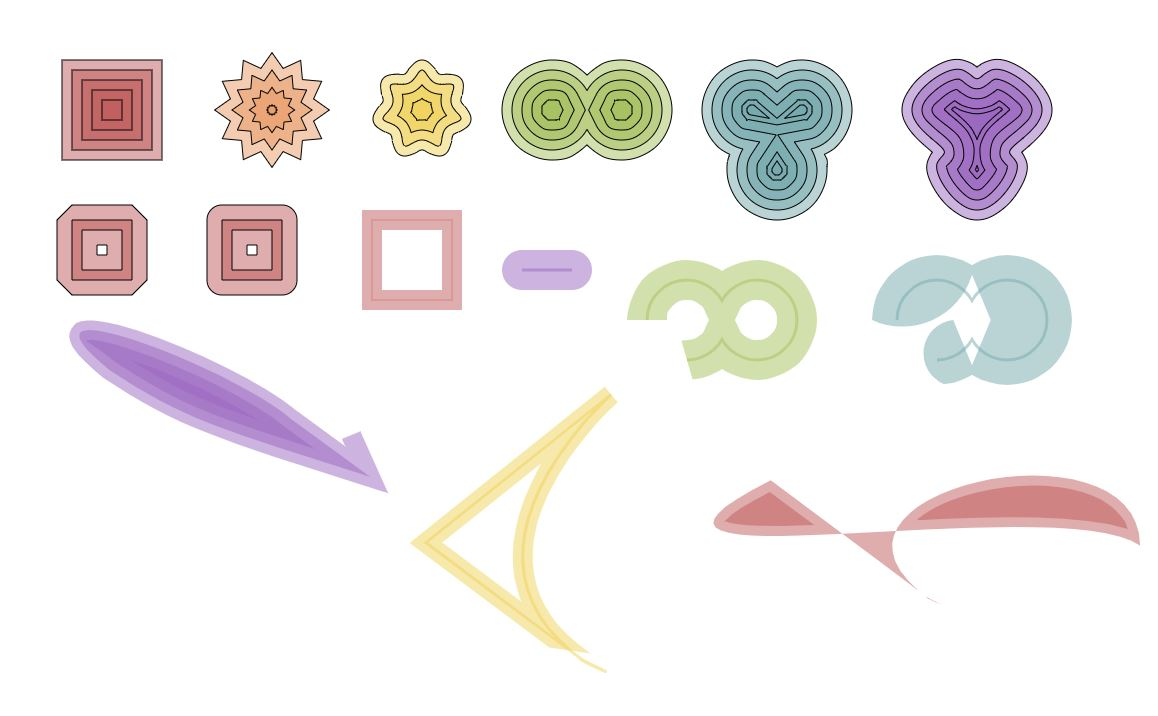
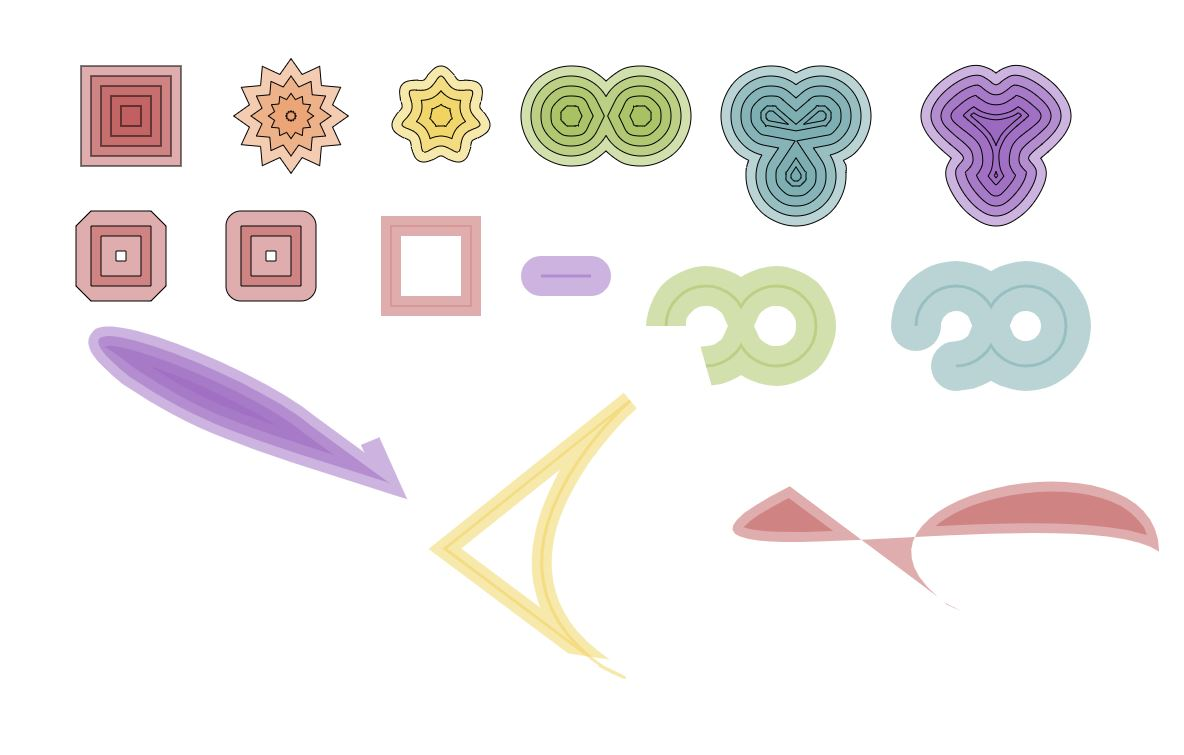
fix error introduced in lastest update

diff --git a/demo/paperjs-offset.min.js b/demo/paperjs-offset.min.js
@@ -1,1 +1,1 @@
-!function(g){"use strict";var w,u,n;function e(n,t,e){var r=function(n,e,r,i){var t=n;if(n instanceof g.Path)t=u.OffsetSimpleShape(n,e,r,i);else{var o=w.Flat(n.children.map(function(n){var t=u.OffsetSimpleShape(n,e,r,i);return(t=u.Normalize(t)).clockwise!==n.clockwise&&t.reverse(),t instanceof g.CompoundPath?(t.applyMatrix=!0,t.children):t}));t=new g.CompoundPath({children:o,closed:n.closed})}return t.copyAttributes(n,!1),t}(n,t,(e=e||{}).join||"miter",e.limit||10);return void 0===e.insert&&(e.insert=!0),e.insert&&(n.parent||g.project.activeLayer).addChild(r),r}function r(n,t,e){var r=function(n,t,e,r,i){var o=n;if(n instanceof g.Path)o=u.OffsetSimpleStroke(n,t,e,r,i);else{var a=w.Flat(n.children.map(function(n){return u.OffsetSimpleStroke(n,t,e,r,i)}));o=new g.Group({children:a,insert:!1})}return o.strokeWidth=0,o.fillColor=n.strokeColor,o.shadowBlur=n.shadowBlur,o.shadowColor=n.shadowColor,o.shadowOffset=n.shadowOffset,o}(n,t,(e=e||{}).join||"miter",e.cap||"butt",e.limit||10);return void 0===e.insert&&(e.insert=!0),e.insert&&(n.parent||g.project.activeLayer).addChild(r),r}g=g&&g.hasOwnProperty("default")?g.default:g,function(n){function r(n,r,t){if(void 0===t&&(t=!1),t){var e="function"==typeof r?function(n,t,e){return!r(n,t,e)}:function(n){return n!==r},i=n.filter(e);if(i.length<n.length)return n.splice.apply(n,[0,n.length].concat(i)),!0}else{var o="function"==typeof r?n.findIndex(r):n.indexOf(r);if(-1<o)return n.splice(o,1),!0}return!1}function c(e,r){return 0<e?new Array(e).fill(null).map(function(n,t){return r(t,e)}):[]}n.Delete=r,n.BatchDelete=function(t,n,e){void 0===e&&(e=!1),n.forEach(function(n){r(t,n,e)})},n.Replace=function(n,t,e,r){if(void 0===r&&(r=!1),null==n)return!1;var i=!1;do{var o="function"==typeof t?n.findIndex(t):n.indexOf(t);if(!(-1<o))break;n[o]=e,i=!0}while(r);return i},n.Find=function(n,t){var e=n.findIndex(t);return n[e]},n.IncludeSome=function(t,n){return n.some(function(n){return t.includes(n)})},n.OrderedInsert=function(n,t,e,r){void 0===r&&(r=!1);var i=n.findIndex(function(n){return 0<=e(n,t)});if(-1<i){var o=0===e(n[i],t);return n.splice(i,o&&r?1:0,t),i}return n.push(t),n.length-1},n.InsertBefore=function(n,t,e){var r=n.indexOf(e);n.splice(Math.max(r,0),0,t)},n.InsertAfter=function(n,t,e){var r=n.indexOf(e);-1<r?n.splice(r+1,0,t):n.push(e)},n.ApproximateIndex=function(n,t,e){return void 0===e&&(e=0),n.findIndex(function(n){return Math.abs(n-t)<=e})},n.Approximate=function(n,t,e){void 0===e&&(e=0);var r=n.findIndex(function(n){return Math.abs(n-t)<=e});return n[r]},n.Empty=function(n){return 0<n?new Array(n).fill(null):[]},n.Create=c,n.Repeat=function(t){for(var e=[],n=1;n<arguments.length;n++)e[n-1]=arguments[n];return c(t*e.length,function(n){return e[Math.floor(n/t)]})},n.RepeatSequence=function(n){for(var t=[],e=1;e<arguments.length;e++)t[e-1]=arguments[e];return c(n*t.length,function(n){return t[n%t.length]})},n.AnalyzePeriod=function(n){for(var t=Math.ceil(Math.sqrt(n.length)),e=1;e<=t;++e)if(n.length%e==0){for(var r=n.slice(0,e),i=!0,o=e;o<n.length;++o)if(n[o]!==r[o%e]){i=!1;break}if(i)return r}return n},n.Flat=function(n,t){void 0===t&&(t=!1);var e=Array.prototype.concat.apply([],n);return t?e:e.filter(function(n){return null!=n})},n.Divide=function(n,t){for(var e=[],r=0;r<n.length;r+=t)e.push(n.slice(r,r+t));return e},n.Group=function(r,i){var o={};return r.forEach(function(n,t){var e=i(n,t,r);o[e]||(o[e]=[]),o[e].push(n)}),o},n.Sample=function(t,n,e){if(void 0===e&&(e=!1),n>=t.length)return t;if(e){for(var r=[],i=t.slice(),o=0;o<n;++o){var a=i.splice(Math.round(i.length*Math.random()),1)[0];r.push(a)}return r}var u=t.length/n;return c(n,function(n){return t[Math.round(u*n)]})},n.Union=function(n,t){void 0===t&&(t=!1);var e=Array.prototype.concat.apply([],n);return t?Array.from(new Set(e)):e},n.Intersect=function(e){if(1<e.length){var t=new Map;e[0].forEach(function(n){return t.set(n,1)});for(var n=1;n<e.length;++n)e[n].forEach(function(n){t.has(n)&&t.set(n,t.get(n)+1)});var r=new Array;return t.forEach(function(n,t){n===e.length&&r.push(t)}),r}return e[0]||[]},n.Subtract=function(n,t){if(1<t.length){var e=new Set(Array.prototype.concat.apply([],t));return n.filter(function(n){return!e.has(n)})}return n||[]},n.NonNull=function(n){return n.filter(function(n){return null!=n})}}(w||(w={})),function(n){function s(n,t,e,r){var i=n.curve===t,o=t.getNormalAt(i?0:1,!0).multiply(r),a=n.point.add(o),u=new g.Segment(a),c=i?"handleOut":"handleIn";return u[c]=n[c].add(e.subtract(o).divide(2)),u}function v(n,t){return n.x*t.y-n.y*t.x}function f(n,t,e,r,i,o){var a=new g.Curve(n[0],n[1]),u=new g.Curve(t[0],t[1]),c=a.getIntersections(u),f=n[1].point.getDistance(t[0].point);if(e.isSmooth())t[0].handleOut=t[0].handleOut.project(e.handleOut),t[0].handleIn=n[1].handleIn.project(e.handleIn),t[0].point=n[1].point.add(t[0].point).divide(2),n.pop();else if(0===c.length)if(f>.1*Math.abs(i))switch(r){case"miter":var s=function(n,t,e,r){var i=n.subtract(t),o=e.subtract(r),a=v(n,t),u=v(e,r);return new g.Point(a*o.x-i.x*u,a*o.y-i.y*u).divide(v(i,o))}(a.point2,a.point2.add(a.getTangentAt(1,!0)),u.point1,u.point1.add(u.getTangentAt(0,!0)));Math.max(s.getDistance(a.point2),s.getDistance(u.point1))<Math.abs(i)*o&&n.push(new g.Segment(s));break;case"round":var l=function(n,t,e,r){var i=n.point.subtract(e).add(t.point.subtract(e)).normalize(Math.abs(r)).add(e),o=new g.Path.Arc({from:n.point,to:t.point,through:i,insert:!1});return n.handleOut=o.firstSegment.handleOut,t.handleIn=o.lastSegment.handleIn,3===o.segments.length?o.segments[1]:null}(n[1],t[0],e.point,i);l&&n.push(l)}else t[0].handleIn=n[1].handleIn,n.pop();else{var d=a.divideAt(c[0]);if(d){var h=d.segment1,p=u.divideAt(u.getIntersections(a)[0]);h.handleOut=p?p.segment1.handleOut:t[0].handleOut,n.pop(),t[0]=h}else t[0].handleIn=n[1].handleIn,n.pop()}}function r(n){return 1===n.children.length&&(n=n.children[0]).remove(),n}function l(n,t){if(void 0===t&&(t=.01),n.closed){var e=Math.abs(n.area*t);if(n.clockwise||n.reverse(),(n=n.unite(n,{insert:!1}))instanceof g.CompoundPath&&(n.children.filter(function(n){return Math.abs(n.area)<e}).forEach(function(n){return n.remove()}),1===n.children.length))return r(n)}return n}function d(i){i.clockwise||i.reverse();var n=i.unite(i,{insert:!1});return n instanceof g.CompoundPath?(n.children.filter(function(n){if(1<n.segments.length){var t=n.segments[0].location.offset,e=n.segments[Math.max(1,Math.floor(n.segments.length/2))].location.offset,r=i.getNearestLocation(n.getPointAt((t+e)/3)).offset;return i.getNearestLocation(n.getPointAt((t+e)/3*2)).offset<r}return!0}).forEach(function(n){return n.remove()}),r(n)):i}function h(n,t){(function(n){return n instanceof g.CompoundPath?w.Flat(n.children.map(function(n){return n.segments})):n.segments})(n).slice().forEach(function(n){t.contains(n.point)||n.remove()})}function p(n,t,e,r){var i=function(n,t){var e=n.clone({insert:!1});return e.reduce(),e}(n),o=i.curves.slice(),a=w.Divide(w.Flat(o.map(function(n){return function n(t,e){var r=new g.Curve(t.segment1.handleOut.add(t.segment1.point),new g.Point(0,0),new g.Point(0,0),t.segment2.handleIn.add(t.segment2.point)).getNormalAt(.5,!0).multiply(e),i=s(t.segment1,t,r,e),o=s(t.segment2,t,r,e),a=new g.Curve(i,o);if(0===a.getIntersections(a).length){var u=Math.min(Math.abs(e)/10,1),c=a.getPointAt(.5,!0).getDistance(t.getPointAt(.5,!0));if(Math.abs(c-Math.abs(e))>u){var f=t.divideAtTime(.5);if(null!=f)return n(t,e).concat(n(f,e))}}return[i,o]}(n,t)})),2),u=w.Flat(function(n,t,e,r,i){for(var o=e.segments,a=n[0].slice(),u=0;u<n.length-1;++u)f(n[u],n[u+1],o[u+1],t,r,i);return e.closed&&(f(n[n.length-1],a,o[0],t,r,i),n[0][0]=a[0]),n}(a,e,i,t,r)),c=d(new g.Path({segments:u,closed:n.closed}));return c.reduce(),n.closed&&(n.clockwise&&t<0||!n.clockwise&&0<t)&&h(c,n),l(c)}function m(n,t,e){var r=n.point.add(t.point).divide(2),i=t.point.subtract(n.point).rotate(-90).normalize(e),o=r.add(i);return new g.Path.Arc({from:n.point,to:t.point,through:o,insert:!1}).segments}n.ConnectAdjacentBezier=f,n.Normalize=l,n.RemoveIntersection=d,n.OffsetSimpleShape=p,n.OffsetSimpleStroke=function(n,t,e,r,i){var o=p(n,t=n.clockwise?t:-t,e,i),a=p(n,-t,e,i);if(n.closed)return o.subtract(a,{insert:!1});var u=a,c=new Array;a instanceof g.CompoundPath&&((c=a.children.filter(function(n){return n.closed})).forEach(function(n){return n.remove()}),u=a.children[0]),u.reverse();var f=function(n,t,e,r){if(n instanceof g.CompoundPath){var i=n.children.map(function(n){return{c:n,a:Math.abs(n.area)}});n=(i=i.sort(function(n,t){return t.a-n.a}))[0].c}var o=n.segments.slice(),a=t.segments.slice();switch(r){case"round":var u=m(a[a.length-1],o[0],e),c=m(o[o.length-1],a[0],e),f=new g.Path({segments:u.concat(o,c,a),closed:!0,insert:!1});return f.reduce(),f;default:return new g.Path({segments:o.concat(a),closed:!0,insert:!1})}}(o,u,t,r);if(0<c.length)for(var s=0,l=c;s<l.length;s++){var d=l[s];f=f.subtract(d,{insert:!1})}return f}}(u||(u={})),(n=g).Path.prototype.offset=function(n,t){return e(this,n,t)},n.Path.prototype.offsetStroke=function(n,t){return r(this,n,t)},n.CompoundPath.prototype.offset=function(n,t){return e(this,n,t)},n.CompoundPath.prototype.offsetStroke=function(n,t){return r(this,n,t)}}(paper);
+!function(w){"use strict";var y,u,n;function e(n,t,e){var r=function(n,e,r,i){var t=n;if(n instanceof w.Path)t=u.OffsetSimpleShape(n,e,r,i);else{var o=y.Flat(n.children.map(function(n){var t=u.OffsetSimpleShape(n,e,r,i);return(t=u.Normalize(t)).clockwise!==n.clockwise&&t.reverse(),t instanceof w.CompoundPath?(t.applyMatrix=!0,t.children):t}));t=new w.CompoundPath({children:o,closed:n.closed})}return t.copyAttributes(n,!1),t}(n,t,(e=e||{}).join||"miter",e.limit||10);return void 0===e.insert&&(e.insert=!0),e.insert&&(n.parent||w.project.activeLayer).addChild(r),r}function r(n,t,e){var r=function(n,t,e,r,i){var o=n;if(n instanceof w.Path)o=u.OffsetSimpleStroke(n,t,e,r,i);else{var a=y.Flat(n.children.map(function(n){return u.OffsetSimpleStroke(n,t,e,r,i)}));o=new w.Group({children:a,insert:!1})}return o.strokeWidth=0,o.fillColor=n.strokeColor,o.shadowBlur=n.shadowBlur,o.shadowColor=n.shadowColor,o.shadowOffset=n.shadowOffset,o}(n,t,(e=e||{}).join||"miter",e.cap||"butt",e.limit||10);return void 0===e.insert&&(e.insert=!0),e.insert&&(n.parent||w.project.activeLayer).addChild(r),r}w=w&&w.hasOwnProperty("default")?w.default:w,function(n){function r(n,r,t){if(void 0===t&&(t=!1),t){var e="function"==typeof r?function(n,t,e){return!r(n,t,e)}:function(n){return n!==r},i=n.filter(e);if(i.length<n.length)return n.splice.apply(n,[0,n.length].concat(i)),!0}else{var o="function"==typeof r?n.findIndex(r):n.indexOf(r);if(-1<o)return n.splice(o,1),!0}return!1}function c(e,r){return 0<e?new Array(e).fill(null).map(function(n,t){return r(t,e)}):[]}n.Delete=r,n.BatchDelete=function(t,n,e){void 0===e&&(e=!1),n.forEach(function(n){r(t,n,e)})},n.Replace=function(n,t,e,r){if(void 0===r&&(r=!1),null==n)return!1;var i=!1;do{var o="function"==typeof t?n.findIndex(t):n.indexOf(t);if(!(-1<o))break;n[o]=e,i=!0}while(r);return i},n.Find=function(n,t){var e=n.findIndex(t);return n[e]},n.IncludeSome=function(t,n){return n.some(function(n){return t.includes(n)})},n.OrderedInsert=function(n,t,e,r){void 0===r&&(r=!1);var i=n.findIndex(function(n){return 0<=e(n,t)});if(-1<i){var o=0===e(n[i],t);return n.splice(i,o&&r?1:0,t),i}return n.push(t),n.length-1},n.InsertBefore=function(n,t,e){var r=n.indexOf(e);n.splice(Math.max(r,0),0,t)},n.InsertAfter=function(n,t,e){var r=n.indexOf(e);-1<r?n.splice(r+1,0,t):n.push(e)},n.ApproximateIndex=function(n,t,e){return void 0===e&&(e=0),n.findIndex(function(n){return Math.abs(n-t)<=e})},n.Approximate=function(n,t,e){void 0===e&&(e=0);var r=n.findIndex(function(n){return Math.abs(n-t)<=e});return n[r]},n.Empty=function(n){return 0<n?new Array(n).fill(null):[]},n.Create=c,n.Repeat=function(t){for(var e=[],n=1;n<arguments.length;n++)e[n-1]=arguments[n];return c(t*e.length,function(n){return e[Math.floor(n/t)]})},n.RepeatSequence=function(n){for(var t=[],e=1;e<arguments.length;e++)t[e-1]=arguments[e];return c(n*t.length,function(n){return t[n%t.length]})},n.AnalyzePeriod=function(n){for(var t=Math.ceil(Math.sqrt(n.length)),e=1;e<=t;++e)if(n.length%e==0){for(var r=n.slice(0,e),i=!0,o=e;o<n.length;++o)if(n[o]!==r[o%e]){i=!1;break}if(i)return r}return n},n.Flat=function(n,t){void 0===t&&(t=!1);var e=Array.prototype.concat.apply([],n);return t?e:e.filter(function(n){return null!=n})},n.Divide=function(n,t){for(var e=[],r=0;r<n.length;r+=t)e.push(n.slice(r,r+t));return e},n.Group=function(r,i){var o={};return r.forEach(function(n,t){var e=i(n,t,r);o[e]||(o[e]=[]),o[e].push(n)}),o},n.Sample=function(t,n,e){if(void 0===e&&(e=!1),n>=t.length)return t;if(e){for(var r=[],i=t.slice(),o=0;o<n;++o){var a=i.splice(Math.round(i.length*Math.random()),1)[0];r.push(a)}return r}var u=t.length/n;return c(n,function(n){return t[Math.round(u*n)]})},n.Union=function(n,t){void 0===t&&(t=!1);var e=Array.prototype.concat.apply([],n);return t?Array.from(new Set(e)):e},n.Intersect=function(e){if(1<e.length){var t=new Map;e[0].forEach(function(n){return t.set(n,1)});for(var n=1;n<e.length;++n)e[n].forEach(function(n){t.has(n)&&t.set(n,t.get(n)+1)});var r=new Array;return t.forEach(function(n,t){n===e.length&&r.push(t)}),r}return e[0]||[]},n.Subtract=function(n,t){if(1<t.length){var e=new Set(Array.prototype.concat.apply([],t));return n.filter(function(n){return!e.has(n)})}return n||[]},n.NonNull=function(n){return n.filter(function(n){return null!=n})}}(y||(y={})),function(n){function s(n,t,e,r){var i=n.curve===t,o=t.getNormalAt(i?0:1,!0).multiply(r),a=n.point.add(o),u=new w.Segment(a),c=i?"handleOut":"handleIn";return u[c]=n[c].add(e.subtract(o).divide(2)),u}function v(n,t){return n.x*t.y-n.y*t.x}function l(n,t,e,r,i,o){var a=new w.Curve(n[0],n[1]),u=new w.Curve(t[0],t[1]),c=a.getIntersections(u),f=n[1].point.getDistance(t[0].point);if(e.isSmooth())t[0].handleOut=t[0].handleOut.project(e.handleOut),t[0].handleIn=n[1].handleIn.project(e.handleIn),t[0].point=n[1].point.add(t[0].point).divide(2),n.pop();else if(0===c.length)if(f>.1*Math.abs(i))switch(r){case"miter":var s=function(n,t,e,r){var i=n.subtract(t),o=e.subtract(r),a=v(n,t),u=v(e,r);return new w.Point(a*o.x-i.x*u,a*o.y-i.y*u).divide(v(i,o))}(a.point2,a.point2.add(a.getTangentAt(1,!0)),u.point1,u.point1.add(u.getTangentAt(0,!0)));Math.max(s.getDistance(a.point2),s.getDistance(u.point1))<Math.abs(i)*o&&n.push(new w.Segment(s));break;case"round":var l=function(n,t,e,r){var i=n.point.subtract(e).add(t.point.subtract(e)).normalize(Math.abs(r)).add(e),o=new w.Path.Arc({from:n.point,to:t.point,through:i,insert:!1});return n.handleOut=o.firstSegment.handleOut,t.handleIn=o.lastSegment.handleIn,3===o.segments.length?o.segments[1]:null}(n[1],t[0],e.point,i);l&&n.push(l)}else t[0].handleIn=n[1].handleIn,n.pop();else{var d=a.divideAt(c[0]);if(d){var h=d.segment1,p=u.divideAt(u.getIntersections(a)[0]);h.handleOut=p?p.segment1.handleOut:t[0].handleOut,n.pop(),t[0]=h}else t[0].handleIn=n[1].handleIn,n.pop()}}function r(n){return 1===n.children.length&&(n=n.children[0]).remove(),n}function d(n,t){if(void 0===t&&(t=.01),n.closed){var e=Math.abs(n.area*t);if(n.clockwise||n.reverse(),(n=n.unite(n,{insert:!1}))instanceof w.CompoundPath&&(n.children.filter(function(n){return Math.abs(n.area)<e}).forEach(function(n){return n.remove()}),1===n.children.length))return r(n)}return n}function h(i){var n=i.unite(i,{insert:!1});return n instanceof w.CompoundPath?(n.children.filter(function(n){if(1<n.segments.length){var t=n.segments[0].location.offset,e=n.segments[Math.max(1,Math.floor(n.segments.length/2))].location.offset,r=i.getNearestLocation(n.getPointAt((t+e)/3)).offset;return i.getNearestLocation(n.getPointAt((t+e)/3*2)).offset<r}return!0}).forEach(function(n){return n.remove()}),r(n)):i}function p(n,t){(function(n){return n instanceof w.CompoundPath?y.Flat(n.children.map(function(n){return n.segments})):n.segments})(n).slice().forEach(function(n){t.contains(n.point)||n.remove()})}function m(n,t,e,r){var i,o;o=(i=function(n,t){var e=n.clone({insert:!1});return e.reduce(),n.clockwise||(e.reverse(),t=-t),[e,t]}(n,t))[0],t=i[1];var a=o.curves.slice(),u=y.Divide(y.Flat(a.map(function(n){return function n(t,e){var r=new w.Curve(t.segment1.handleOut.add(t.segment1.point),new w.Point(0,0),new w.Point(0,0),t.segment2.handleIn.add(t.segment2.point)).getNormalAt(.5,!0).multiply(e),i=s(t.segment1,t,r,e),o=s(t.segment2,t,r,e),a=new w.Curve(i,o);if(0===a.getIntersections(a).length){var u=Math.min(Math.abs(e)/10,1),c=a.getPointAt(.5,!0).getDistance(t.getPointAt(.5,!0));if(Math.abs(c-Math.abs(e))>u){var f=t.divideAtTime(.5);if(null!=f)return n(t,e).concat(n(f,e))}}return[i,o]}(n,t)})),2),c=y.Flat(function(n,t,e,r,i){for(var o=e.segments,a=n[0].slice(),u=0;u<n.length-1;++u)l(n[u],n[u+1],o[u+1],t,r,i);return e.closed&&(l(n[n.length-1],a,o[0],t,r,i),n[0][0]=a[0]),n}(u,e,o,t,r)),f=h(new w.Path({segments:c,closed:n.closed}));return f.reduce(),o.closed&&(o.clockwise&&t<0||!o.clockwise&&0<t)&&p(f,n),o.clockwise!==n.clockwise&&f.reverse(),d(f)}function g(n,t,e){var r=n.point.add(t.point).divide(2),i=t.point.subtract(n.point).rotate(-90).normalize(e),o=r.add(i);return new w.Path.Arc({from:n.point,to:t.point,through:o,insert:!1}).segments}n.ConnectAdjacentBezier=l,n.Normalize=d,n.RemoveIntersection=h,n.OffsetSimpleShape=m,n.OffsetSimpleStroke=function(n,t,e,r,i){var o=m(n,t=n.clockwise?t:-t,e,i),a=m(n,-t,e,i);if(n.closed)return o.subtract(a,{insert:!1});var u=a,c=new Array;a instanceof w.CompoundPath&&((c=a.children.filter(function(n){return n.closed})).forEach(function(n){return n.remove()}),u=a.children[0]),u.reverse();var f=function(n,t,e,r){if(n instanceof w.CompoundPath){var i=n.children.map(function(n){return{c:n,a:Math.abs(n.area)}});n=(i=i.sort(function(n,t){return t.a-n.a}))[0].c}var o=n.segments.slice(),a=t.segments.slice();switch(r){case"round":var u=g(a[a.length-1],o[0],e),c=g(o[o.length-1],a[0],e),f=new w.Path({segments:u.concat(o,c,a),closed:!0,insert:!1});return f.reduce(),f;default:return new w.Path({segments:o.concat(a),closed:!0,insert:!1})}}(o,u,t,r);if(0<c.length)for(var s=0,l=c;s<l.length;s++){var d=l[s];f=f.subtract(d,{insert:!1})}return f}}(u||(u={})),(n=w).Path.prototype.offset=function(n,t){return e(this,n,t)},n.Path.prototype.offsetStroke=function(n,t){return r(this,n,t)},n.CompoundPath.prototype.offset=function(n,t){return e(this,n,t)},n.CompoundPath.prototype.offsetStroke=function(n,t){return r(this,n,t)}}(paper);

diff --git a/demo/paperjs-offset.js b/demo/paperjs-offset.js
@@ -435,9 +435,6 @@
         Offsets.Normalize = Normalize;
         /** Remove self intersection when offset is negative by point direction dectection. */
         function RemoveIntersection(path) {
-            if (!path.clockwise) {
-                path.reverse();
-            }
             var newPath = path.unite(path, { insert: false });
             if (newPath instanceof paper.CompoundPath) {
                 newPath.children.filter(function (c) {
@@ -479,17 +476,27 @@
         function PreparePath(path, offset) {
             var source = path.clone({ insert: false });
             source.reduce();
-            return source;
+            if (!path.clockwise) {
+                source.reverse();
+                offset = -offset;
+            }
+            return [source, offset];
         }
         function OffsetSimpleShape(path, offset, join, limit) {
-            var source = PreparePath(path, offset);
+            var _a;
+            var source;
+            _a = PreparePath(path, offset), source = _a[0], offset = _a[1];
             var curves = source.curves.slice();
             var raws = Arrayex.Divide(Arrayex.Flat(curves.map(function (curve) { return AdaptiveOffsetCurve(curve, offset); })), 2);
             var segments = Arrayex.Flat(ConnectBeziers(raws, join, source, offset, limit));
             var offsetPath = RemoveIntersection(new paper.Path({ segments: segments, closed: path.closed }));
             offsetPath.reduce();
-            if (path.closed && ((path.clockwise && offset < 0) || (!path.clockwise && offset > 0))) {
+            if (source.closed && ((source.clockwise && offset < 0) || (!source.clockwise && offset > 0))) {
                 RemoveOutsiders(offsetPath, path);
+            }
+            // recovery path
+            if (source.clockwise !== path.clockwise) {
+                offsetPath.reverse();
             }
             return Normalize(offsetPath);
         }

diff --git a/src/Offset.ts b/src/Offset.ts
@@ -177,9 +177,6 @@ namespace Offsets {
 
   /** Remove self intersection when offset is negative by point direction dectection. */
   export function RemoveIntersection(path: PathType) {
-    if (!path.clockwise) {
-      path.reverse()
-    }
     let newPath = path.unite(path, { insert: false }) as PathType
     if (newPath instanceof paper.CompoundPath) {
       (newPath.children as Array<paper.Path>).filter(c => {
@@ -218,21 +215,30 @@ namespace Offsets {
     })
   }
 
-  function PreparePath(path: paper.Path, offset: number) {
+  function PreparePath(path: paper.Path, offset: number): [paper.Path, number] {
     let source = path.clone({ insert: false }) as paper.Path
     source.reduce()
-    return source
+    if (!path.clockwise) {
+      source.reverse()
+      offset = -offset
+    }
+    return [source, offset]
   }
 
   export function OffsetSimpleShape(path: paper.Path, offset: number, join: StrokeJoinType, limit: number): PathType {
-    let source = PreparePath(path, offset)
+    let source: paper.Path
+    [source, offset] = PreparePath(path, offset)
     let curves = source.curves.slice()
     let raws = Arrayex.Divide(Arrayex.Flat<paper.Segment>(curves.map(curve => AdaptiveOffsetCurve(curve, offset))), 2)
     let segments = Arrayex.Flat(ConnectBeziers(raws, join, source, offset, limit))
     let offsetPath = RemoveIntersection(new paper.Path({ segments, closed: path.closed }))
     offsetPath.reduce()
-    if (path.closed && ((path.clockwise && offset < 0) || (!path.clockwise && offset > 0))) {
+    if (source.closed && ((source.clockwise && offset < 0) || (!source.clockwise && offset > 0))) {
       RemoveOutsiders(offsetPath, path)
+    }
+    // recovery path
+    if (source.clockwise !== path.clockwise) {
+      offsetPath.reverse()
     }
     return Normalize(offsetPath)
   }
